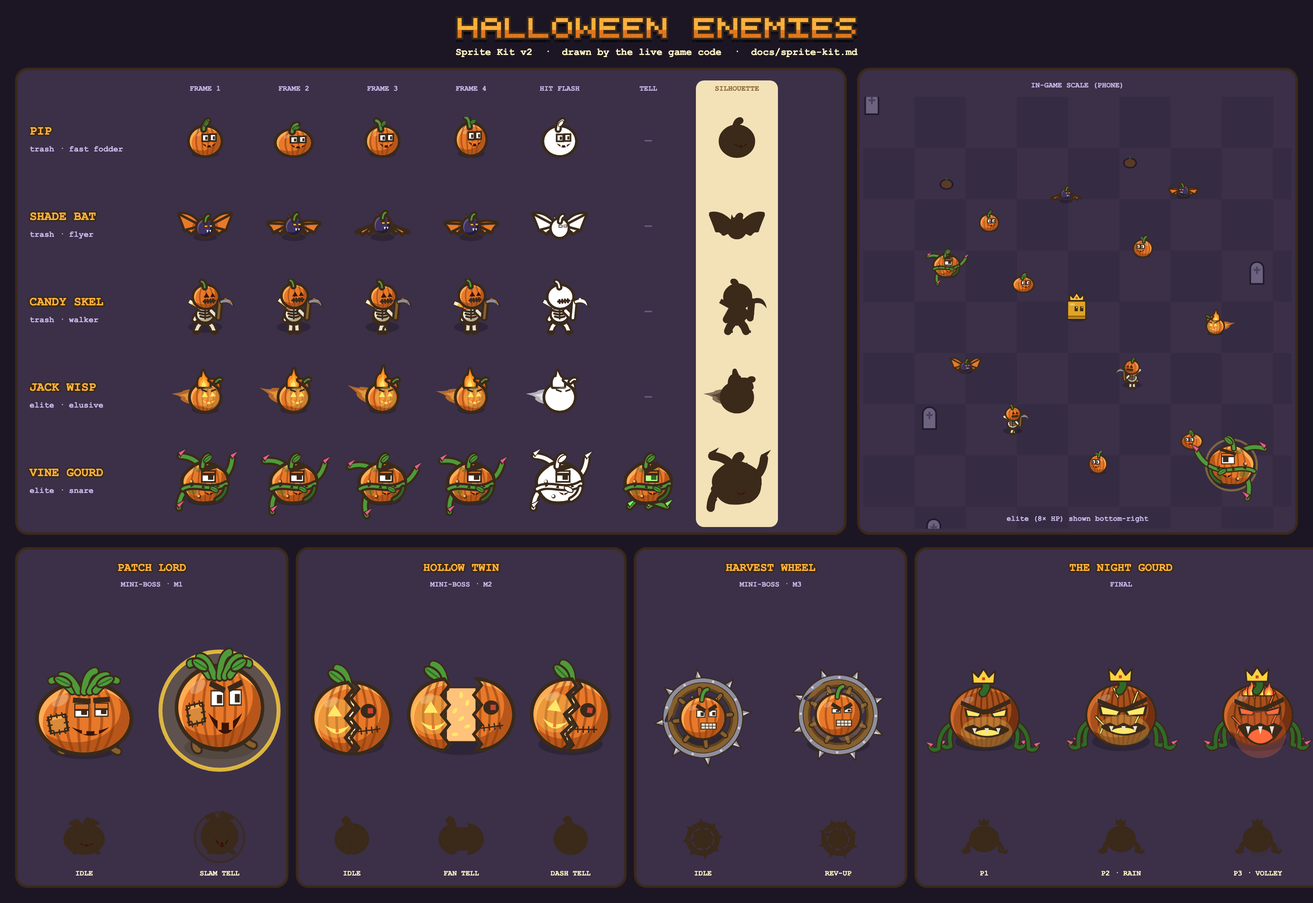
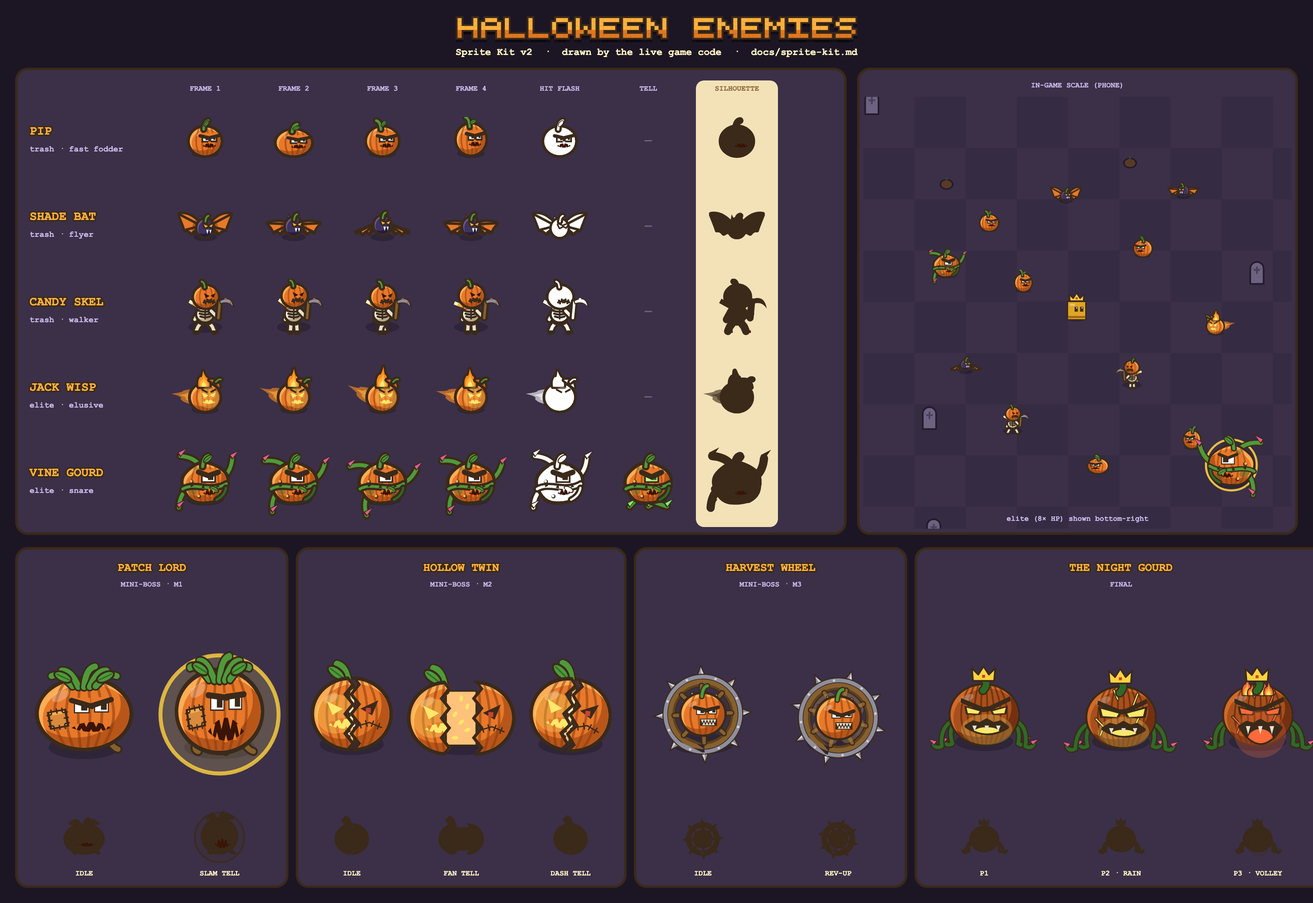
Menace pass: make every Halloween enemy read mean, not goofy
- Kit: eye() gains a slanted glare lid whose ink edge is the brow; new snarl()
  (frowning mouth with jagged fangs) and slit() (angled carved eye)
- Pip, Patch Lord, Vine Gourd, Harvest Wheel glare; Jack Wisp and Hollow
  Twin get angled glowing eyes and fanged scowls; Candy Skel and the Hollow
  Twin's stitched half frown; Shade Bat gets angled eyes and longer fangs;
  the Night Gourd's maw arches into a snarl
- __cs.art(id, opts) renders any character/frame/pose to a PNG for review
  sheets; style guide gains the tone rule; review exports refreshed

diff --git a/public/index.html b/public/index.html
@@ -476,15 +476,26 @@ function inkLine(P,w,c,rim=1.2){x.lineCap=x.lineJoin='round';x.beginPath();P();x
 const gloss=(cx,cy,rx,ry)=>{x.fillStyle=F('rgba(255,255,255,.24)');x.beginPath();x.ellipse(cx,cy,rx,ry,-.5,0,7);x.fill()};
 // pumpkin ribs inside an oval, in the ramp's deep tone; sh slides them sideways (a roll)
 function ribs(rx,ry,n,c,lw,sh=0){x.save();x.beginPath();oval(0,0,rx,ry)();x.clip();x.strokeStyle=F(c);x.lineWidth=lw;x.globalAlpha*=.55;for(let i=0;i<n;i++){const px=(((i+.5)/n+sh)%1*2-1)*rx*.95;x.beginPath();x.moveTo(px*.5,-ry);x.quadraticCurveTo(px*1.15,0,px*.5,ry);x.stroke()}x.restore()}
-// square eye looking forward (+x): o.lid 0..1 in o.lidC, o.brow angle (sign per side), o.white / o.pupil recolour it
+// square eye looking forward (+x): o.lid 0..1 in o.lidC, o.brow angle (sign per side), o.white / o.pupil recolour it.
+// o.glare 0..1 cuts a slanted lid whose ink edge is the brow (low on the inner side: o.side -1 left eye, +1 right eye, 0 = one eye, V-shaped)
 function eye(cx,cy,w,h,o={}){x.fillStyle=pal.ink;x.fillRect(cx-w/2-.9,cy-h/2-.9,w+1.8,h+1.8);x.fillStyle=F(o.white||'#fff');x.fillRect(cx-w/2,cy-h/2,w,h);
  const pw=w*.46,ph=h*.62;x.fillStyle=o.pupil?F(o.pupil):pal.ink;x.fillRect(cx+w/2-pw-w*.08,cy-ph/2+h*.06,pw,ph);
+ if(o.glare){const sd=o.side||0,g=h*o.glare,T0=cy-h/2-1.3,hi=cy-h/2+g*.12,lo=cy-h/2+g,L=cx-w/2-1.3,Rr=cx+w/2+1.3,yl=sd>0?lo:hi,yr=sd<0?lo:hi,ext=w*.14;
+  x.fillStyle=F(o.lidC);x.beginPath();x.moveTo(L,T0);x.lineTo(Rr,T0);x.lineTo(Rr,yr);if(!sd)x.lineTo(cx,lo);x.lineTo(L,yl);x.fill();
+  x.strokeStyle=pal.ink;x.lineWidth=(o.bw||1.1)*2;x.lineCap=x.lineJoin='round';x.beginPath();x.moveTo(L-ext,yl);if(!sd)x.lineTo(cx,lo);x.lineTo(Rr+ext,yr);x.stroke()}
  if(o.lid){x.fillStyle=F(o.lidC);x.fillRect(cx-w/2,cy-h/2,w,h*o.lid);x.fillStyle=pal.ink;x.fillRect(cx-w/2-.9,cy-h/2+h*o.lid-.7,w+1.8,1.4)}
  if(o.brow!=null){x.save();x.translate(cx,cy-h/2-(o.bg||1.8));x.rotate(o.brow);x.fillStyle=pal.ink;x.fillRect(-w*.7,-(o.bw||1.1),w*1.4,(o.bw||1.1)*2);x.restore()}}
 const tri=(cx,cy,s,c)=>{x.fillStyle=c;x.beginPath();x.moveTo(cx,cy-s);x.lineTo(cx-s,cy+s*.65);x.lineTo(cx+s,cy+s*.65);x.fill()};
 // carved jack-o'-lantern grin: a crescent with square teeth left in the skin colour
 function grin(cx,cy,w,h,c,teeth,skin){x.fillStyle=c;x.beginPath();x.moveTo(cx-w/2,cy-h*.3);x.quadraticCurveTo(cx,cy+h*.35,cx+w/2,cy-h*.3);x.quadraticCurveTo(cx,cy+h*1.05,cx-w/2,cy-h*.3);x.fill();
  if(teeth){x.fillStyle=F(skin);for(let i=0;i<teeth;i++){const t=(i+1)/(teeth+1),y=cy+h*(-.3*(1-t)*(1-t)+.7*t*(1-t)-.3*t*t);x.fillRect(cx+w*(t-.5)-w*.06,y-1,w*.12,h*.26+1)}}}
+// scowl: a carved mouth arched like a frown (corners down) with jagged fangs; c = hole colour (HOLLOW or a glow), skin = fang colour
+function snarl(cx,cy,w,h,c,skin,n=3){const L=cx-w/2,yc=cy+h*.2,top=t=>yc-1.5*h*t*(1-t),bot=t=>yc+1*h*t*(1-t),tw=w/n*.3;x.fillStyle=c;x.beginPath();x.moveTo(L,yc);x.quadraticCurveTo(cx,yc-h*.75,L+w,yc);x.quadraticCurveTo(cx,yc+h*.5,L,yc);x.fill();
+ x.fillStyle=F(skin);for(let i=0;i<n;i++){const t=(i+.5)/n,tx=L+w*t,ty=top(t);x.beginPath();x.moveTo(tx-tw,ty-1);x.lineTo(tx,ty+h*.3);x.lineTo(tx+tw,ty-1);x.fill()}
+ for(let i=1;i<n;i++){const t=i/n,tx=L+w*t,ty=bot(t);x.beginPath();x.moveTo(tx-tw*.75,ty+1);x.lineTo(tx,ty-h*.17);x.lineTo(tx+tw*.75,ty+1);x.fill()}}
+// angled carved eye: high outer corner, low inner corner (s -1 left eye, +1 right eye); rim > 0 adds an ink casing
+function slit(cx,cy,w,h,s,c,rim=0){const P=()=>{x.moveTo(cx+s*w/2,cy-h/2);x.lineTo(cx-s*w/2,cy+h*.05);x.lineTo(cx+s*w*.15,cy+h/2);x.closePath()};
+ if(rim){x.lineJoin='round';x.fillStyle=x.strokeStyle=pal.ink;x.lineWidth=rim*2;x.beginPath();P();x.stroke();x.fill()}x.fillStyle=c;x.beginPath();P();x.fill()}
 function stitch(x0,y0,x1,y1,n,w){x.strokeStyle=pal.ink;x.lineWidth=1.1;x.lineCap='round';x.beginPath();x.moveTo(x0,y0);x.lineTo(x1,y1);const dx=x1-x0,dy=y1-y0,L=Math.hypot(dx,dy)||1,nx=-dy/L*w,ny=dx/L*w;
  for(let i=0;i<n;i++){const t=(i+.5)/n,px=x0+dx*t,py=y0+dy*t;x.moveTo(px-nx,py-ny);x.lineTo(px+nx,py+ny)}x.stroke()}
 // curled stem rising from (x0,y0); k = curl direction
@@ -499,11 +510,11 @@ function flame(cx,by,w,h,sw,cols,rim=1.2){const P=k=>{const W2=w*k/2,H=h*k;x.mov
  x.lineJoin='round';if(rim){x.fillStyle=x.strokeStyle=pal.ink;x.lineWidth=rim*2;x.beginPath();P(1);x.stroke();x.fill()}cols.forEach((c,i)=>{x.fillStyle=F(c);x.beginPath();P(1-i*.3);x.fill()})}
 // --- trash + elite drawers: (r, frame 0-3, state 'n' | 't'), facing +x ---
 const SPRK={
- // PIP: rolling pumpkin with a manic carved grin. Bounce squash/stretch, ribs scroll to fake the roll, leaf flips
+ // PIP: mean little rolling pumpkin: glaring eyes, jagged scowl. Bounce squash/stretch, ribs scroll to fake the roll, leaf flips
  pip:(r,f)=>{const sy=[1,.9,1,1.08][f],rx=r*1.02,ry=r*.92;x.translate(0,[0,r*.1,0,-r*.12][f]);x.scale(1/sy,sy);
   shaded(oval(0,0,rx,ry),RAMP.pump,r*.26);ribs(rx,ry,4,RAMP.pump[3],r*.11,f/16);gloss(-r*.42,-r*.45,r*.2,r*.11);
   stemC(-r*.1,-ry,r*.55,f<2?1:-1);leaf(-r*.05,-ry-r*.08,r*.42,f%2?-.4:-.9);
-  eye(r*.02,-r*.22,r*.32,r*.34);eye(r*.52,-r*.24,r*.28,r*.34);grin(r*.26,r*.26,r*.95,r*.44,HOLLOW,2,RAMP.pump[1])},
+  eye(r*.04,-r*.2,r*.34,r*.36,{glare:.55,side:-1,lidC:RAMP.pump[1],bw:.9});eye(r*.55,-r*.22,r*.3,r*.36,{glare:.55,side:1,lidC:RAMP.pump[1],bw:.9});snarl(r*.28,r*.22,r*.92,r*.46,HOLLOW,RAMP.pump[1],3)},
  // SHADE BAT: purple-black bat, pumpkin-orange membranes over finger bones, a stem curl on its head, orange slit eyes (its accent)
  shade:(r,f)=>{const ty=[-r*1.05,-r*.25,r*.55,-r*.25][f],by=[r*.12,0,-r*.12,0][f];
   for(const s of[-1,1]){const S=[s*r*.3,by-r*.18],T=[s*r*1.95,by+ty],P1=[s*r*1.5,by+ty*.35+r*.5],P2=[s*r*1.0,by+ty*.15+r*.55],B=[s*r*.35,by+r*.3];
@@ -513,8 +524,8 @@ const SPRK={
    x.strokeStyle=pal.ink;x.lineWidth=1.3;x.beginPath();x.moveTo(...S);x.lineTo(...T);x.moveTo(...S);x.lineTo(...P1);x.moveTo(...S);x.lineTo(...P2);x.stroke()}
   for(const s of[-1,1]){x.fillStyle=pal.ink;x.beginPath();x.moveTo(s*r*.1,by-r*.45);x.lineTo(s*r*.4,by-r*1.05);x.lineTo(s*r*.52,by-r*.32);x.fill();x.fillStyle=F(RAMP.night[0]);x.beginPath();x.moveTo(s*r*.2,by-r*.5);x.lineTo(s*r*.39,by-r*.86);x.lineTo(s*r*.44,by-r*.42);x.fill()}
   shaded(oval(0,by,r*.6,r*.66),RAMP.night,r*.18,1.3);stemC(r*.02,by-r*.6,r*.42,1);
-  x.fillStyle=pal.ink;x.fillRect(-r*.08,by-r*.24,r*.3,r*.2);x.fillRect(r*.3,by-r*.26,r*.26,r*.2);x.fillStyle=F('#ffb13d');x.fillRect(-r*.03,by-r*.2,r*.2,r*.11);x.fillRect(r*.34,by-r*.22,r*.17,r*.11);
-  x.fillStyle=F(RAMP.bone[0]);x.beginPath();x.moveTo(r*.1,by+r*.14);x.lineTo(r*.18,by+r*.36);x.lineTo(r*.26,by+r*.14);x.moveTo(r*.32,by+r*.14);x.lineTo(r*.39,by+r*.32);x.lineTo(r*.46,by+r*.14);x.fill()},
+  slit(r*.06,by-r*.16,r*.32,r*.24,-1,F('#ffb13d'),.8);slit(r*.44,by-r*.18,r*.28,r*.22,1,F('#ffb13d'),.8);
+  x.fillStyle=F(RAMP.bone[0]);x.beginPath();x.moveTo(r*.08,by+r*.12);x.lineTo(r*.17,by+r*.46);x.lineTo(r*.26,by+r*.12);x.moveTo(r*.32,by+r*.12);x.lineTo(r*.4,by+r*.42);x.lineTo(r*.48,by+r*.12);x.fill()},
  // CANDY SKEL: bone skeleton, carved pumpkin head, ragged candy-corn scarf, rusty sickle. 2-step walk, head bob, scarf swing
  cskel:(r,f)=>{const st=[1,0,-1,0][f],hb=[0,-r*.06,0,-r*.06][f],sw=[0,.15,0,-.15][f],bone=(P,w)=>inkLine(P,w,RAMP.bone[1]);
   bone(()=>{x.moveTo(-r*.3,-r*.05);x.lineTo(-r*.45-st*r*.1,r*.4)},r*.16);
@@ -524,7 +535,7 @@ const SPRK={
   x.save();x.translate(-r*.25,-r*.24);x.rotate(.5+sw);x.fillStyle=pal.ink;x.fillRect(-r*.72,-r*.13,r*.74,r*.26);['#fff1c9','#ffb13d','#e8792a'].forEach((c,i)=>{x.fillStyle=F(c);x.fillRect(-r*.68+i*r*.22,-r*.09,r*.22,r*.18)});x.restore();
   x.fillStyle=pal.ink;x.fillRect(-r*.42,-r*.35,r*.84,r*.22);x.fillStyle=F('#e8792a');x.fillRect(-r*.39,-r*.32,r*.78,r*.16);x.fillStyle=F('#fff1c9');x.fillRect(-r*.39,-r*.32,r*.78,r*.05);
   x.save();x.translate(r*.04,-r*.8+hb);const hr=r*.6;shaded(oval(0,0,hr*1.05,hr*.95),RAMP.pump,hr*.26,1.4);ribs(hr*1.05,hr*.95,3,RAMP.pump[3],hr*.12);stemC(-hr*.1,-hr*.95,hr*.5,-1);
-  tri(hr*.05,-hr*.1,hr*.26,F(HOLLOW));tri(hr*.6,-hr*.13,hr*.22,F(HOLLOW));stitch(-hr*.2,hr*.42,hr*.78,hr*.34,4,hr*.13);x.restore();
+  slit(hr*.08,-hr*.1,hr*.5,hr*.44,-1,F(HOLLOW));slit(hr*.62,-hr*.12,hr*.42,hr*.4,1,F(HOLLOW));stitch(-hr*.2,hr*.5,hr*.29,hr*.32,2,hr*.13);stitch(hr*.29,hr*.32,hr*.78,hr*.48,2,hr*.13);x.restore();
   bone(()=>{x.moveTo(r*.32,-r*.05);x.lineTo(r*.55,r*.18);x.lineTo(r*.72,r*.08)},r*.16);inkLine(()=>{x.moveTo(r*.7,r*.32);x.lineTo(r*.78,-r*.55)},r*.13,RAMP.wood[1]);
   x.fillStyle=pal.ink;x.beginPath();x.moveTo(r*.7,-r*.64);x.quadraticCurveTo(r*1.45,-r*.98,r*1.58,-r*.18);x.quadraticCurveTo(r*1.3,-r*.62,r*.8,-r*.4);x.fill();
   x.fillStyle=F(RAMP.iron[1]);x.beginPath();x.moveTo(r*.8,-r*.58);x.quadraticCurveTo(r*1.38,-r*.86,r*1.46,-r*.32);x.quadraticCurveTo(r*1.25,-r*.6,r*.82,-r*.47);x.fill();x.fillStyle=F('#b0602a');x.fillRect(r*1.02,-r*.73,r*.12,r*.08);x.fillRect(r*1.3,-r*.55,r*.08,r*.1)},
@@ -535,10 +546,10 @@ const SPRK={
   flame(-r*.05+sw*r*.2,-r*.7,r*.72,r*(1.05+fl*.14),sw*r*.45,['#ff8a1a','#ffb13d',GLOW]);
   x.save();x.translate(r*.68,-r*.98);x.rotate(.62);shaded(()=>{x.moveTo(-r*.42,r*.1);x.quadraticCurveTo(0,-r*.34,r*.42,r*.1);x.closePath()},RAMP.pump,r*.06,1.2,0);stemC(0,-r*.12,r*.32,1);x.restore();
   x.globalAlpha=.3;x.fillStyle=F(GLOW);x.beginPath();x.arc(r*.22,r*.02,r*.7,0,7);x.fill();x.globalAlpha=1;
-  tri(-r*.02,-r*.16,r*.21,F(GLOW));tri(r*.5,-r*.18,r*.18,F(GLOW));x.fillStyle=pal.ink;
-  x.save();x.translate(-r*.06,-r*.44);x.rotate(.35);x.fillRect(-r*.2,-r*.05,r*.4,r*.1);x.restore();x.save();x.translate(r*.55,-r*.46);x.rotate(-.35);x.fillRect(-r*.18,-r*.05,r*.36,r*.1);x.restore();
-  grin(r*.24,r*.3,r*.85,r*.36,F(GLOW),2,RAMP.pump[1])},
- // VINE GOURD: lumpy gourd strangled by a thorn vine, one big angry eye above it, a small fanged grin below. Tendrils writhe;
+  slit(r*.0,-r*.14,r*.46,r*.36,-1,F(GLOW));slit(r*.5,-r*.16,r*.4,r*.34,1,F(GLOW));x.fillStyle=pal.ink;
+  x.save();x.translate(-r*.04,-r*.42);x.rotate(.5);x.fillRect(-r*.22,-r*.06,r*.44,r*.12);x.restore();x.save();x.translate(r*.54,-r*.44);x.rotate(-.5);x.fillRect(-r*.2,-r*.06,r*.4,r*.12);x.restore();
+  snarl(r*.24,r*.24,r*.86,r*.44,F(GLOW),RAMP.pump[1],3)},
+ // VINE GOURD: lumpy gourd strangled by a thorn vine, one big glaring eye above it, a fanged scowl below. Tendrils writhe;
  // on the tell they dig into the ground and the eye flares green
  vgourd:(r,f,st)=>{const T=st==='t',w=[0,1,2,1][f];
   for(let i=0;i<3;i++){const a=[-2.5,-.55,2.2][i]+(T?0:(w-1)*.18*(i%2?1:-1)),L=r*1.75,tx=T?(i-1)*r*.9:Math.cos(a)*L,ty=T?r*1.15:Math.sin(a)*L,cx=Math.cos(a+.7)*r*1.2,cy=T?r*.5:Math.sin(a+.7)*r*1.2;
@@ -552,8 +563,8 @@ const SPRK={
   [[-.66,-.05],[.7,.15],[-.3,.66]].forEach(([a,b])=>{x.fillStyle=pal.ink;x.beginPath();x.arc(a*r,b*r,r*.1,0,7);x.fill();x.fillStyle=F(RAMP.pump[0]);x.beginPath();x.arc(a*r-r*.02,b*r-r*.02,r*.065,0,7);x.fill()});
   inkLine(()=>{x.moveTo(-r*1.08,r*.3);x.bezierCurveTo(-r*.5,-r*.05,r*.3,r*.5,r*1.02,r*.05)},r*.13,RAMP.stem[1]);inkLine(()=>{x.moveTo(r*.55,r*.82);x.quadraticCurveTo(r*.95,r*.62,r*1.0,r*.25)},r*.1,RAMP.stem[2]);leaf(r*.25,r*.22,r*.42,.5);
   for(const [px,py,a] of[[-r*.62,r*.18,-.5],[-r*.1,r*.26,.1],[r*.62,r*.22,-.3]]){x.save();x.translate(px,py);x.rotate(a);x.fillStyle=pal.ink;x.beginPath();x.moveTo(-r*.08,0);x.lineTo(0,-r*.24);x.lineTo(r*.08,0);x.fill();x.restore()}
-  eye(r*.16,-r*.3,r*.56,r*.44,{pupil:T?'#2f6a28':null,white:T?'#b8ff8a':'#fff',lid:.25,lidC:RAMP.pump[1],brow:T?-.5:-.3,bw:1.5,bg:2.2});
-  grin(r*.2,r*.5,r*.5,r*.24,HOLLOW,1,RAMP.pump[1]);stemC(-r*.12,-r*.9,r*.5,1);leaf(-r*.04,-r*1.0,r*.45,-.7)}};
+  eye(r*.16,-r*.3,r*.56,r*.46,{pupil:T?'#2f6a28':null,white:T?'#b8ff8a':'#fff',glare:T?.55:.42,side:0,lidC:RAMP.pump[1],bw:1.4});
+  snarl(r*.2,r*.44,r*.6,r*.34,HOLLOW,RAMP.pump[1],3);stemC(-r*.12,-r*.9,r*.5,1);leaf(-r*.04,-r*1.0,r*.45,-.7)}};
 // per drawer: frame rate (frames per unit of e.ph) and half-size of its cached box in radii (tight boxes keep blits cheap)
 const SPRF={pip:10,shade:14,cskel:6,jwisp:8,vgourd:5},SPRR={pip:1.6,shade:2.1,cskel:1.75,jwisp:2.45,vgourd:2.2};
 // cache: one canvas per (type, r, frame, state, FL, scale bucket); keys carry the scale, so a resize just starts new entries
@@ -565,7 +576,7 @@ function sprite(id,r,f,st){const s=Math.round((Math.abs(x.getTransform().a)||1)*
 function hwEnemyS(e,T,r,fl){if(scene==='play'&&G){const d=G.p.x-e.x;if(Math.abs(d)>3)e.fc=d<0?-1:1}if(e.fc<0)x.scale(-1,1);if(T==='jwisp'&&Math.sin(e.ph*9)>.85)x.globalAlpha=.55;
  FL=fl?1:0;sprite(T,r,((e.ph*SPRF[T])|0)&3,T==='vgourd'&&e.shootT<.5?'t':'n');FL=0;x.globalAlpha=1}
 // --- ritual bosses: drawn live (at most 3 on screen), poses read from the AI state (tell / next / dash / bph / vol / pose) ---
-// PATCH LORD: fat pumpkin king, crown of curled stems, sewn-on cheek patch, smug lidded eyes. Tell: rears up, eyes wide, mouth gapes, then slams
+// PATCH LORD: fat pumpkin tyrant, crown of curled stems, sewn-on cheek patch, glaring eyes, fanged scowl. Tell: rears up, eyes wide, roars, then slams
 function patchS(e,r){const T=e.tell>0&&e.next==='slam',s=T?Math.min(1,(.7-e.tell)/.5):0,ft=[0,1,0,-1][((e.ph*5)|0)&3];
  if(s){x.globalAlpha=.2*s;x.fillStyle=F(GLOW);x.beginPath();x.arc(0,-r*.1,r*1.5,0,7);x.fill();x.globalAlpha=.9*s;x.strokeStyle=F('#ffd23f');x.lineWidth=3;x.stroke();x.globalAlpha=1}
  for(const k of[-1,0,1]){const fy=r*.8+(k?ft*k*r*.06:0);inkLine(()=>{x.moveTo(k*r*.55,r*.5);x.quadraticCurveTo(k*r*.7,fy,k*r*.7+r*.16,fy+r*.04)},r*.13,RAMP.wood[1],1.5)}
@@ -574,9 +585,9 @@ function patchS(e,r){const T=e.tell>0&&e.next==='slam',s=T?Math.min(1,(.7-e.tell
  for(let i=-2;i<=2;i++){x.save();x.translate(i*rx*.16,-ry*.93);x.rotate(i*.32);stemC(0,0,r*.5,i<0?-1:1);x.restore()}leaf(-r*.35,-ry*.98,r*.42,-2.7);leaf(r*.35,-ry*.98,r*.42,-.45);
  x.save();x.translate(-r*.66,r*.14);x.rotate(-.18);x.fillStyle=pal.ink;x.fillRect(-r*.25,-r*.23,r*.5,r*.46);x.fillStyle=F('#d98a3a');x.fillRect(-r*.21,-r*.19,r*.42,r*.38);x.fillStyle=F(RAMP.pump[0]);x.fillRect(-r*.21,-r*.19,r*.42,r*.07);
  const q=r*.21;stitch(-q,-q,q,-q,3,r*.05);stitch(q,-q,q,q,3,r*.05);stitch(q,q,-q,q,3,r*.05);stitch(-q,q,-q,-q,3,r*.05);x.restore();
- eye(-r*.06,-r*.2,r*.32,r*.3,{lid:T?0:.45,lidC:RAMP.pump[1],brow:T?.38:.06,bw:2,bg:3});eye(r*.44,-r*.22,r*.3,r*.3,{lid:T?0:.45,lidC:RAMP.pump[1],brow:T?-.38:-.06,bw:2,bg:3});
- grin(r*.16,r*.32,r*.95,r*(.32+.4*s),HOLLOW,2,RAMP.pump[1]);x.restore()}
-// HOLLOW TWIN: one pumpkin split down a jagged crack. Far half: glowing carved half-face; near half: stitched hollow with one red eye; pulp and seeds between.
+ eye(-r*.06,-r*.2,r*.34,r*.32,{glare:T?.2:.55,side:-1,lidC:RAMP.pump[1],bw:2});eye(r*.44,-r*.22,r*.32,r*.32,{glare:T?.2:.55,side:1,lidC:RAMP.pump[1],bw:2});
+ snarl(r*.18,r*.28,r*1.0,r*(.4+.45*s),HOLLOW,RAMP.pump[1],4);x.restore()}
+// HOLLOW TWIN: one pumpkin split down a jagged crack. Far half: glowing carved glare and scowl; near half: stitched frown, one red eye in a hollow socket; pulp and seeds between.
 // Fan tell: the halves part and the seeds glow. Dash tell: it leans in
 function twinS(e,r){const fan=e.tell>0&&e.next==='fan',s=fan?Math.min(1,(.5-e.tell)/.3):.08+.05*Math.sin(e.ph*3),o=s*r*.4,Z=[];for(let i=0;i<=8;i++)Z.push([(i%2?.12:-.1)*r,-r*1.1+i*r*.275]);
  if(e.tell>0&&e.next==='dash')x.rotate(.14);
@@ -584,8 +595,8 @@ function twinS(e,r){const fan=e.tell>0&&e.next==='fan',s=fan?Math.min(1,(.5-e.te
  x.save();x.translate(-o,0);stemC(-r*.05,-r*.92,r*.6,-1);leaf(-r*.2,-r*1.0,r*.5,-2.5);x.restore();
  for(const sd of[-1,1]){x.save();x.translate(sd*o,0);x.beginPath();Z.forEach(([a,b],i)=>i?x.lineTo(a,b):x.moveTo(a,b));x.lineTo(sd*r*1.5,r*1.3);x.lineTo(sd*r*1.5,-r*1.3);x.closePath();x.clip();
   shaded(oval(0,0,r*1.02,r*.95),RAMP.pump,r*.22,3);ribs(r*1.02,r*.95,6,RAMP.pump[3],r*.07);
-  if(sd<0){gloss(-r*.55,-r*.45,r*.22,r*.12);x.globalAlpha=.28;x.fillStyle=F(GLOW);x.beginPath();x.arc(-r*.42,0,r*.55,0,7);x.fill();x.globalAlpha=1;tri(-r*.45,-r*.18,r*.2,F(GLOW));grin(-r*.38,r*.3,r*.7,r*.36,F(GLOW),1,RAMP.pump[1])}
-  else{x.fillStyle=pal.ink;x.beginPath();x.ellipse(r*.44,-r*.2,r*.22,r*.2,0,0,7);x.fill();x.fillStyle=F('#c8452f');x.fillRect(r*.42,-r*.28,r*.15,r*.15);stitch(r*.16,r*.38,r*.76,r*.3,4,r*.08)}
+  if(sd<0){gloss(-r*.55,-r*.45,r*.22,r*.12);x.globalAlpha=.28;x.fillStyle=F(GLOW);x.beginPath();x.arc(-r*.42,0,r*.55,0,7);x.fill();x.globalAlpha=1;slit(-r*.44,-r*.16,r*.44,r*.38,-1,F(GLOW));snarl(-r*.12,r*.22,r*1.0,r*.44,F(GLOW),RAMP.pump[1],4)}
+  else{slit(r*.46,-r*.17,r*.5,r*.42,1,pal.ink);x.fillStyle=F('#c8452f');x.fillRect(r*.36,-r*.17,r*.14,r*.14);stitch(r*.12,r*.34,r*.46,r*.24,2,r*.08);stitch(r*.46,r*.24,r*.8,r*.38,2,r*.08)}
   x.beginPath();oval(0,0,r*1.02+3,r*.95+3)();x.clip();x.strokeStyle=pal.ink;x.lineWidth=5;x.lineJoin='miter';x.beginPath();Z.forEach(([a,b],i)=>i?x.lineTo(a,b):x.moveTo(a,b));x.stroke();x.restore()}}
 // HARVEST WHEEL: angry pumpkin hub in a spiked, iron-banded cartwheel with straw poking out. Rev-up: spokes blur and the face strains
 function wheelS(e,r){const rev=e.tell>0&&e.next==='roll'||e.dash>0;x.save();x.rotate(e.spin||0);
@@ -598,8 +609,9 @@ function wheelS(e,r){const rev=e.tell>0&&e.next==='roll'||e.dash>0;x.save();x.ro
  if(rev){x.globalAlpha=.4;x.strokeStyle=F(RAMP.wood[0]);x.lineWidth=r*.3;for(let i=0;i<4;i++){x.beginPath();x.arc(0,0,r*.62,i*1.571,i*1.571+.9);x.stroke()}x.globalAlpha=1}x.restore();
  for(let i=0;i<5;i++){const b=-2.6+i*.55;inkLine(()=>{x.moveTo(Math.cos(b)*r*.35,Math.sin(b)*r*.35);x.lineTo(Math.cos(b)*r*.66,Math.sin(b)*r*.66)},r*.05,'#e8c860',.9)}
  const h=r*.58;shaded(oval(0,0,h*1.06,h),RAMP.pump,h*.24,2.4);ribs(h*1.06,h,4,RAMP.pump[3],h*.1);gloss(-h*.5,-h*.5,h*.22,h*.12);stemC(-h*.05,-h,h*.5,1);
- eye(-h*.1,-h*.2,h*.36,h*(rev?.16:.3),{brow:.55,bw:1.9,bg:2.4});eye(h*.48,-h*.22,h*.32,h*(rev?.16:.28),{brow:-.55,bw:1.9,bg:2.4});
- x.fillStyle=pal.ink;x.fillRect(-h*.12,h*.24,h*.8,h*.34);x.fillStyle=F(RAMP.bone[1]);x.fillRect(-h*.07,h*.28,h*.7,h*.26);x.fillStyle=pal.ink;x.fillRect(-h*.07,h*.4,h*.7,h*.03);for(let k=1;k<4;k++)x.fillRect(-h*.07+k*h*.175,h*.28,h*.03,h*.26)}
+ eye(-h*.1,-h*.18,h*.38,h*.34,{glare:rev?.72:.5,side:-1,lidC:RAMP.pump[1],bw:1.8});eye(h*.48,-h*.2,h*.34,h*.32,{glare:rev?.72:.5,side:1,lidC:RAMP.pump[1],bw:1.8});
+ x.fillStyle=pal.ink;x.fillRect(-h*.14,h*.22,h*.84,h*.36);x.fillStyle=F(RAMP.bone[1]);for(let k=0;k<5;k++){const tx=-h*.1+k*h*.152;x.beginPath();x.moveTo(tx,h*.26);x.lineTo(tx+h*.152,h*.26);x.lineTo(tx+h*.076,h*.44);x.fill();
+  if(k<4){x.beginPath();x.moveTo(tx+h*.076,h*.54);x.lineTo(tx+h*.228,h*.54);x.lineTo(tx+h*.152,h*.38);x.fill()}}}
 // THE NIGHT GOURD: massive dark pumpkin, gold crown fused to a twisted stem, fanged maw glowing from inside (its one glow), thorn roots to the ground.
 // P2: glowing crack seams. P3: the top breaks open and burns, glow turns hot. Tells: maw opens (volley/spiral), roots glow (vines), eyes flare (rain), lean (charge)
 function gourdS(e,r){const ph=e.bph||1,gl=ph===3?HOT:GLOW,ps=e.poseT>0?e.pose:null,open=e.vol>0||ps==='volley'?1:ps==='spiral'?.55:.12,flare=ps==='rain'?1.35:1,t=e.ph,rx=r*1.05,ry=r*.92;
@@ -616,7 +628,7 @@ function gourdS(e,r){const ph=e.bph||1,gl=ph===3?HOT:GLOW,ps=e.poseT>0?e.pose:nu
  x.fillStyle=pal.ink;x.beginPath();x.moveTo(-r*.72,-r*.52);x.lineTo(-r*.04,-r*.24);x.lineTo(r*.14,-r*.26);x.lineTo(r*.8,-r*.57);x.lineTo(r*.82,-r*.43);x.lineTo(r*.14,-r*.1);x.lineTo(-r*.04,-r*.08);x.lineTo(-r*.74,-r*.38);x.fill();
  for(const [cx,s] of[[-r*.34,-1],[r*.46,1]]){x.save();x.translate(cx,-r*.1);x.scale(s*flare,flare);x.fillStyle=pal.ink;x.beginPath();x.moveTo(-r*.27,-r*.04);x.lineTo(r*.28,-r*.18);x.lineTo(r*.23,r*.09);x.lineTo(-r*.2,r*.11);x.fill();
   x.fillStyle=F(gl);x.beginPath();x.moveTo(-r*.2,-r*.01);x.lineTo(r*.21,-r*.12);x.lineTo(r*.17,r*.05);x.lineTo(-r*.15,r*.07);x.fill();x.restore()}
- const my=r*.36,mw=r*.64,mh=r*(.16+.3*open),mx=r*.08,maw=()=>{x.moveTo(mx-mw,my);for(let i=1;i<=6;i++)x.lineTo(mx-mw+i*mw/3,my+(i%2?-r*.07:r*.03));x.quadraticCurveTo(mx,my+mh*2.2,mx-mw,my);x.closePath()};
+ const my=r*.36,mw=r*.64,mh=r*(.16+.3*open),mx=r*.08,maw=()=>{x.moveTo(mx-mw,my);for(let i=1;i<=6;i++)x.lineTo(mx-mw+i*mw/3,my+(i%2?-r*.07:r*.03)-Math.sin(i/6*Math.PI)*r*.12);x.quadraticCurveTo(mx,my+mh*2.2,mx-mw,my);x.closePath()};
  x.globalAlpha=.25;x.fillStyle=F(gl);x.beginPath();x.ellipse(mx,my+mh*.5,mw*1.25,mh+r*.28,0,0,7);x.fill();x.globalAlpha=1;
  x.save();x.lineJoin='round';x.fillStyle=x.strokeStyle=pal.ink;x.lineWidth=5;x.beginPath();maw();x.stroke();x.fill();x.clip();x.fillStyle=F(gl);x.beginPath();x.ellipse(mx,my+mh*.9,mw*.62,mh*.75,0,0,7);x.fill();x.restore();
  x.fillStyle=F(RAMP.bone[1]);for(const fx of[-.3,.08,.44]){x.beginPath();x.moveTo(r*(fx-.07),my-r*.02);x.lineTo(r*fx,my+r*.1+mh*.3);x.lineTo(r*(fx+.07),my-r*.02);x.fill()}}
@@ -1002,6 +1014,9 @@ if(LB_API){const m=location.hash.match(/lb_token=([^&]+)/),er=/lb_error=/.test(l
 if(SHEETQ==='halloween')scene='sheet';
 window.__cs={get joy(){return joy},get mt(){return mt},setHp:f=>{G.p.hp=G.p.mhp*f},cards:()=>cards(),INF,get btns(){return btns},BOSS,spawnBoss:i=>{G.bossI=i+1;spawnBoss(i)},setPhase:n=>{G.phase=n},setT:t=>{G.t=t},get G(){return G},get S(){return S},get scene(){return scene},start:()=>{scene='play';startRun()},auto:(on=true)=>{G.auto=on},god:(on=true)=>{G.god=on},speed:n=>speedMul=n,go:s=>{scene=s},
  pickAuto:()=>{if(G&&G.choice){const c=G.choice;c.t=1;const cs=c.cards;const e=cs.find(q=>q.kind==='e')||cs.find(q=>q.kind==='w'&&q.lv>1)||cs[Math.random()*cs.length|0];choose(e);return true}return false},addGold:n=>{S.gold+=n;save()},
- startHw:()=>{scene='play';startRun(1)},embers:n=>{G.hw.embers+=n},summon:()=>hwSummon(),killRitual:()=>{SC=st();for(const e of G.hw.live.slice())hurtEnemy(e,1e9)},spriteCache:()=>SPR.size,ev:()=>evLive(),get runMode(){return runMode}};
+ startHw:()=>{scene='play';startRun(1)},embers:n=>{G.hw.embers+=n},summon:()=>hwSummon(),killRitual:()=>{SC=st();for(const e of G.hw.live.slice())hurtEnemy(e,1e9)},spriteCache:()=>SPR.size,
+ // review renders for the asset sheet: one character alone on a transparent canvas → PNG data URL. o: f, st, fl (1 flash, 2 silhouette), scale, e (boss pose fields)
+ art:(id,o={})=>{const B=!!HB[id],r=o.r||(B?HB[id].r:id==='hero'?10:ETYPE[id].r),s=o.scale||6,c=document.createElement('canvas');c.width=c.height=Math.ceil(r*(B?1.8:SPRR[id]||1.6)*2*s);const ox=x;x=c.getContext('2d');
+  try{x.setTransform(s,0,0,s,c.width/2,c.height/2);FL=o.fl||0;if(id==='hero')heroS(0,2,o.ci||0,1,0,1,false);else if(B)hwBossS(Object.assign({hb:id,r,ph:0,flash:0,fc:1},o.e||{}));else SPRK[id](r,o.f||0,o.st||'n')}finally{FL=0;x=ox}return c.toDataURL()},ev:()=>evLive(),get runMode(){return runMode}};
 })();
 </script></body></html>

diff --git a/docs/sprite-kit.md b/docs/sprite-kit.md
@@ -32,6 +32,9 @@ Readability rules:
 - Orange on deep purple is the core contrast. Faces must survive at 1× game scale on a phone (about 20 device px radius for trash).
 - **One accent glow max** per enemy (artist brief). Props stay faceless so they never read as enemies.
 - No gore, no candy mascots, no licensed characters. Pumpkin-first.
+- **Menacing, not goofy** (revision 2). Lids and brows slant down toward the face centre (`eye` with `glare`). Carved eyes are angled
+  (`slit`), never upright triangles. Mouths scowl with the corners down and show fangs (`snarl`). No upturned smiles, no buck teeth.
+  Stay in the house style: chunky, readable and mean, never horror-realistic.
 
 ## 3. Palette ramps (`RAMP` in code)
 
@@ -51,15 +54,15 @@ Every brief lists the silhouette hook, the detail layers, the 4-frame cycle and 
 
 | Character | Concept | Silhouette hook | Detail layers | 4-frame cycle | Tell |
 | --- | --- | --- | --- | --- | --- |
-| **Pip** (trash, r8) | Small rolling pumpkin with a manic carved grin | squat ball + curly stem | ribs that scroll to fake the roll; carved zigzag grin; square eyes | bounce squash/stretch, ribs scroll, leaf flips | — |
-| **Shade Bat** (trash, r7) | Purple-black bat with pumpkin-orange wing membranes and a stem curl on its head | wide scalloped wings | finger bones over orange membrane; ears, fangs; orange slit eyes (its accent) | up / mid / down / mid flap, body bobs opposite | — |
-| **Candy Skel** (trash, r10) | Bone skeleton with a carved pumpkin head, ragged candy-corn scarf, rusty sickle | tall: head on top + sickle hook | ribcage + pelvis; triangle-eye pumpkin head; scarf; sickle | 2-step walk (legs alternate, head bobs, scarf swings) | — |
-| **Jack Wisp** (elite, r8) | Jack-o'-lantern whose lid is knocked open; a flame climbs out of the top and trails behind as it floats | teardrop: lantern + flame tail | cracked lid; glowing carved face (its one glow); ghost-flame tail away from the player | flame flickers through 4 shapes, bob | flicker to half alpha (elusive) |
-| **Vine Gourd** (elite, r11) | Lumpy warty gourd strangled by thorn vines; one big eye peers out between them | lumpy blob + 3 lashing tendrils | uneven lobed body; green mottles; 2 crossing vines; cyclops eye + brow | tendrils writhe through 4 poses | tendrils dig into the ground, eye flares green before a snare |
-| **Patch Lord** (M1, r30) | Fat pumpkin king with a crown of curled stems and a sewn-on patch | wide squat body + stem crown | 5 ribs, stitched cheek patch, heavy-lidded smug eyes, jowly snaggle grin, root feet | feet shuffle, body sways | rears up tall, mouth gapes, glow ring → slam squash |
-| **Hollow Twin** (M2, r30) | One pumpkin split down a jagged crack: a glowing grin on one half, a stitched hollow with one red eye on the other | jagged split, halves offset | pulp + seeds in the split; carved glowing half-face; stitched half-face | halves breathe apart/together | fan: halves part and seeds glow. Dash: halves clamp and lean in |
-| **Harvest Wheel** (M3, r34) | Angry pumpkin hub inside a spiked wooden cartwheel, straw sticking out | spiked ring | wood rim + iron band + 8 spokes + iron spikes; straw tufts; gritted teeth + brows | wheel rotates with travel | rev-up: spoke blur arcs + sparks, face strains |
-| **The Night Gourd** (final, r46) | A massive dark pumpkin with a fused gold crown, a jagged fanged maw glowing from inside, thorn vines draping like roots | huge body + crown + root skirt | 7 deep ribs, brow ridge, fanged maw (its glow), crown on a twisted stem, vine roots | body breathes, roots curl | volley: maw opens. Vines: roots glow. Rain: eyes flare. Charge: leans in |
+| **Pip** (trash, r8) | Mean little rolling pumpkin | squat ball + curly stem | ribs that scroll to fake the roll; glaring square eyes; fanged scowl | bounce squash/stretch, ribs scroll, leaf flips | — |
+| **Shade Bat** (trash, r7) | Purple-black bat with pumpkin-orange wing membranes and a stem curl on its head | wide scalloped wings | finger bones over orange membrane; ears, long fangs; angled orange slit eyes (its accent) | up / mid / down / mid flap, body bobs opposite | — |
+| **Candy Skel** (trash, r10) | Bone skeleton with a carved pumpkin head, ragged candy-corn scarf, rusty sickle | tall: head on top + sickle hook | ribcage + pelvis; pumpkin head with angled carved eyes and a stitched frown; scarf; sickle | 2-step walk (legs alternate, head bobs, scarf swings) | — |
+| **Jack Wisp** (elite, r8) | Jack-o'-lantern whose lid is knocked open; a flame climbs out of the top and trails behind as it floats | teardrop: lantern + flame tail | cracked lid; three-tongue flame; glowing angled eyes and fanged scowl (its one glow); ghost-flame tail away from the player | flame flickers through 4 shapes, bob | flicker to half alpha (elusive) |
+| **Vine Gourd** (elite, r11) | Lumpy warty gourd strangled by thorn vines; one big eye peers out between them | lumpy blob + 3 lashing tendrils | smooth lobed body; green mottles; one strangling vine; V-glaring cyclops eye; fanged scowl | tendrils writhe through 4 poses | tendrils dig into the ground, eye flares green before a snare |
+| **Patch Lord** (M1, r30) | Fat pumpkin tyrant with a crown of curled stems and a sewn-on patch | wide squat body + stem crown | 6 ribs, stitched cheek patch, glaring lids, wide fanged scowl, root feet | feet shuffle, body sways | rears up tall, eyes wide, roars, glow ring → slam squash |
+| **Hollow Twin** (M2, r30) | One pumpkin split down a jagged crack: a glowing glare and scowl on one half, a stitched frown and one red eye in a hollow socket on the other | jagged split, halves offset | pulp + seeds in the split; carved glowing half-face; stitched half-face | halves breathe apart/together | fan: halves part and seeds glow. Dash: halves clamp and lean in |
+| **Harvest Wheel** (M3, r34) | Angry pumpkin hub inside a spiked wooden cartwheel, straw sticking out | spiked ring | wood rim + iron band + 8 spokes + iron spikes; straw tufts; glaring lids + interlocking fangs | wheel rotates with travel | rev-up: spoke blur arcs + sparks, face strains |
+| **The Night Gourd** (final, r46) | A massive dark pumpkin with a fused gold crown, a jagged fanged maw glowing from inside, thorn vines draping like roots | huge body + crown + root skirt | 8 deep ribs, brow ridge, snarling fanged maw (its glow), crown on a twisted stem, vine roots | body breathes, roots curl | volley: maw opens. Vines: roots glow. Rain: eyes flare. Charge: leans in |
 
 Night Gourd phase art: **P1** intact. **P2** glowing crack seams and a chipped ridge. **P3** the top of the shell is broken open,
 flames lick out around the crown, and the glow turns hot `#ff6a3a`.
@@ -115,6 +118,8 @@ Measured on 25 Oct 2026: draw-only frame rate with 320 Halloween enemies, 390×8
 | CPU raster (headless shell, DPR 2, 4× throttle) | 14–15 fps | 23–26 fps |
 
 Review exports: `art/halloween/halloween-v1-enemies.png` (the `?sheet=halloween` scene) and `art/halloween/halloween-v1-in-game.png`.
+Per-character model sheets with before/after renders: `__cs.art(id, opts)` returns a transparent PNG of any character, frame or pose
+(used to build the Halloween Bestiary review page).
 
 ## 9. Upgrading Classic later (not in this PR)
 
